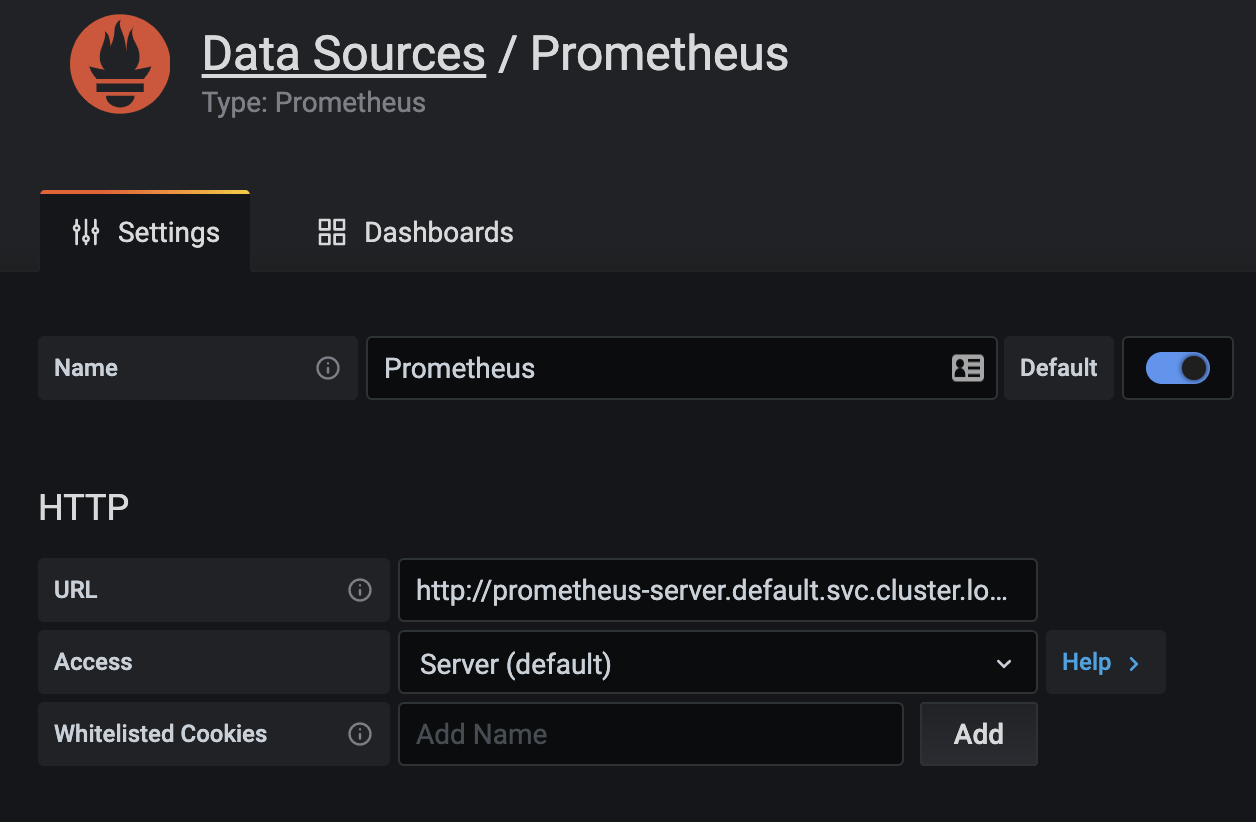
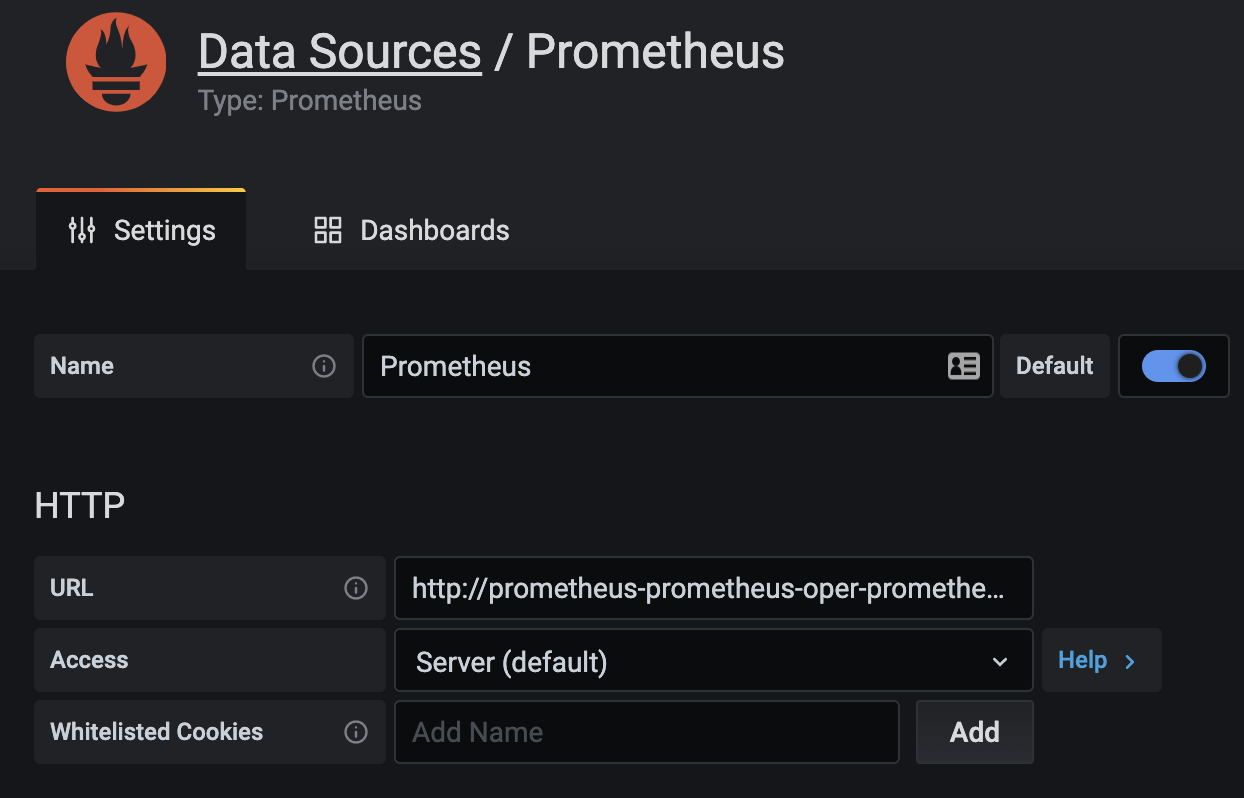
Update to use the Bitnami Helm chart for Prometheus (#251)

diff --git a/content/guides/kubernetes/prometheus-grafana-p1.md b/content/guides/kubernetes/prometheus-grafana-p1.md
@@ -27,50 +27,7 @@ In this guide, you’ll be setting up Prometheus and Grafana on an existing Kube
 
 Luckily, there’s a comprehensive [Helm chart for Prometheus](https://github.com/helm/charts/tree/master/stable/prometheus) with an extensive list of configuration options. If you’re not familiar with Helm, make sure to check out [Helm: What Is it?](/guides/kubernetes/helm-what-is/) and [Getting Started With Helm](/guides/kubernetes/helm-gs/). For this walkthrough, you’ll be keeping things fairly straightforward, so if you’ve used Helm before, or are just starting to learn, you will have seen most of what’s in this guide.
 
-You may already have the Helm Stable charts repository added locally, but if not, you can add it using the `helm repo add` command followed by the `helm repo update` command to pull in the latest metadata:
-
-```bash
-helm repo add stable https://kubernetes-charts.storage.googleapis.com/
-```
-
-```bash
-helm repo update
-```
-
-Before you install Prometheus, check out the [configuration options](https://github.com/helm/charts/tree/master/stable/prometheus#configuration) you have, because there are a lot of them. In this example, it’s assumed that you’ll be installing with the default configuration into a Kubernetes cluster with no specific requirements. As you can see, there are options for everything from how each component is exposed (i.e., the type of ingress used, if it’s behind a load balancer, etc.) to how data is stored and more. If this was a production installation, you’d want to thoroughly sort out these options, but for the purposes of this demo, you can install Prometheus with the default configuration using the `helm install` command:
-
-```bash
-helm install prometheus stable/prometheus
-```
-
-After a few moments, you’ll see a few new pods created:
-
-```bash
-prometheus-alertmanager-d47577c4b-l9d7h          2/2     Running   0          2d21h
-prometheus-kube-state-metrics-6df5d44568-7dx7f   1/1     Running   0          2d21h
-prometheus-node-exporter-6jg6c                   1/1     Running   0          2d21h
-prometheus-node-exporter-dqwpk                   1/1     Running   0          2d21h
-prometheus-node-exporter-drb4c                   1/1     Running   0          2d21h
-prometheus-node-exporter-rrkfx                   1/1     Running   0          2d21h
-prometheus-node-exporter-w252z                   1/1     Running   0          2d21h
-prometheus-pushgateway-57c97d878d-2fbcf          1/1     Running   0          2d21h
-prometheus-server-559c49b4ff-b9n55               2/2     Running   0          2d21h
-```
-
-There are a few ways you can access Prometheus, but it largely depends on how your Kubernetes cluster is configured. For example, you could configure the `prometheus-server` service to be of type `LoadBalancer`, however this may not be the best route if doing so will expose it publicly. As the Prometheus documentation points out, traditionally you would expose the server through a reverse proxy, such as nginx. But since the default configuration of the Prometheus Helm chart only exposes it to other pods in the Kubernetes cluster, you can instead take advantage of the `kubectl port-forward` command. Open a new terminal and keep it open after running the following:
-
-```bash
-export POD_NAME=$(kubectl get pods --namespace default -l "app=prometheus,component=server" -o jsonpath="{.items[0].metadata.name}")
-kubectl --namespace default port-forward $POD_NAME 9090
-```
-
-Great! The above command forwards all traffic to port 9090 on your machine to the `prometheus-server` pod, which you can see by visiting [http://localhost:9090](http://localhost:9090).
-
-![Prometheus Dashboard](/images/guides/kubernetes/prometheus-grafana/prometheus-001.png)
-
-## Installing Grafana
-
-Much like Prometheus, Grafana has a great [Helm chart](https://hub.helm.sh/charts/bitnami/grafana) for installing it. Again, you’ll see a plethora of configuration options to tweak the installation to your needs, but for this demo, you can just install it with the default configuration to see it in action. You'll first need to add the Bitnami Helm repository and run the `helm repo update` command:
+To install Prometheus, you first need to add the Bitnami Helm repository by using the `helm repo add` command followed by the `helm repo update` command to pull in the latest metadata:
 
 ```bash
 helm repo add bitnami https://charts.bitnami.com/bitnami
@@ -80,7 +37,35 @@ helm repo add bitnami https://charts.bitnami.com/bitnami
 helm repo update
 ```
 
-Then, install the Helm chart:
+Before you install Prometheus, check out the [configuration options](https://github.com/bitnami/charts/tree/master/bitnami/kube-prometheus#parameters) you have, because there are a lot of them. In this example, it’s assumed that you’ll be installing with the default configuration into a Kubernetes cluster with no specific requirements. As you can see, there are options for everything from how each component is exposed (i.e., the type of ingress used, if it’s behind a load balancer, etc.) to how data is stored and more. If this was a production installation, you’d want to thoroughly sort out these options, but for the purposes of this demo, you can install Prometheus with the default configuration using the `helm install` command:
+
+```bash
+helm install prometheus bitnami/prometheus-operator
+```
+
+After a few moments, you’ll see a few new pods created:
+
+```bash
+alertmanager-prometheus-prometheus-oper-alertmanager-0   2/2     Running   0          25m
+prometheus-kube-state-metrics-68cb46fdd4-gk4jh           1/1     Running   0          25m
+prometheus-node-exporter-rkg84                           1/1     Running   0          25m
+prometheus-prometheus-oper-operator-745f4b599c-xjjsn     1/1     Running   0          25m
+prometheus-prometheus-prometheus-oper-prometheus-0       3/3     Running   1          25m
+```
+
+There are a few ways you can access Prometheus, but it largely depends on how your Kubernetes cluster is configured. As the Prometheus documentation points out, traditionally you would expose the server through a reverse proxy, such as nginx. But since the default configuration of the Prometheus Helm chart only exposes it to other pods in the Kubernetes cluster, you can instead take advantage of the `kubectl port-forward` command. Open a new terminal and keep it open after running the following:
+
+```bash
+kubectl port-forward --namespace default svc/prometheus-prometheus-oper-prometheus 9090:9090
+```
+
+Great! The above command forwards all traffic to port 9090 on your machine to the `prometheus-server` pod, which you can see by visiting [http://localhost:9090](http://localhost:9090).
+
+![Prometheus Dashboard](/images/guides/kubernetes/prometheus-grafana/prometheus-001.png)
+
+## Installing Grafana
+
+Much like Prometheus, Grafana has a great [Helm chart](https://hub.helm.sh/charts/bitnami/grafana) for installing it. Again, you’ll see a plethora of configuration options to tweak the installation to your needs, but for this demo, you can just install it with the default configuration to see it in action. You can install the `bitnami/grafana` Helm chart with the following command:
 
 ```bash
 helm install grafana bitnami/grafana
@@ -111,7 +96,7 @@ With this command running, you can now access Grafana at [http://localhost:3000]
 
 If you mouse over the cogwheel on the left-hand side of the Grafana screen, you’ll be prompted with several configuration options. Choose “Data Sources,” followed by “Add data source.” Here, you’ll see a long list of data sources that Grafana knows how to talk to automatically, and luckily Prometheus is on that list. Choose “Prometheus” and you’ll be brought to the configuration screen for your new data source.
 
-If you didn’t change the default configuration when installing Prometheus, you’ll only need to give it a name of your choosing, as well as the URL where Prometheus is running. Since both are running in the same cluster, you can connect Grafana to Prometheus using the internal DNS to Kubernetes by providing it the service name that Prometheus is connected to: http://prometheus-server.default.svc.cluster.local
+If you didn’t change the default configuration when installing Prometheus, you’ll only need to give it a name of your choosing, as well as the URL where Prometheus is running. Since both are running in the same cluster, you can connect Grafana to Prometheus using the internal DNS to Kubernetes by providing it the service name that Prometheus is connected to: `http://prometheus-prometheus-oper-prometheus.default.svc.cluster.local:9090`
 
 ![Adding a new Grafana data source](/images/guides/kubernetes/prometheus-grafana/prometheus-002.png)
 
